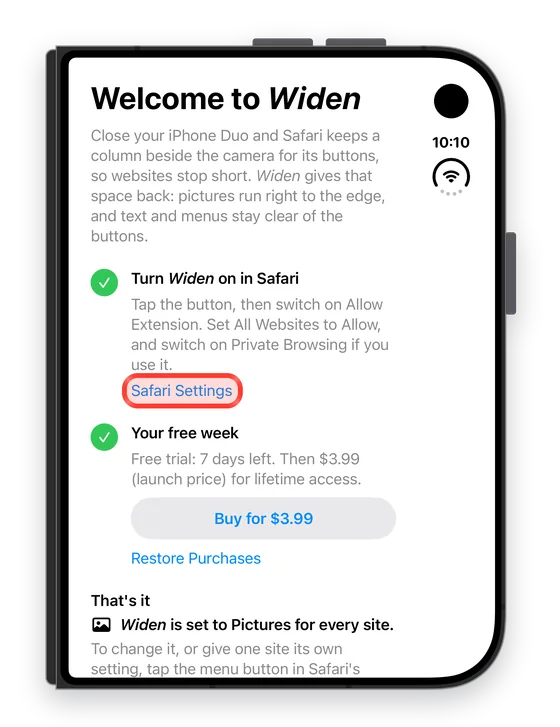
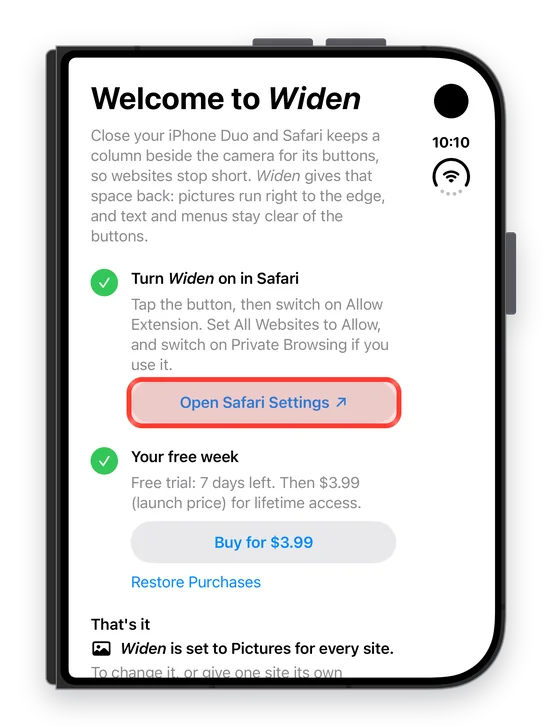
Setup step 1: Open Safari Settings button (build 45)

Changed region(s): [[0.1518, 0.5144, 0.7286, 0.9381]]

diff --git a/setup/index.html b/setup/index.html
@@ -33,9 +33,9 @@
     <ol class="guide">
       <li>
         <div><span class="where">In the <em>Widen</em> app</span>
-          <h2>Tap Safari Settings</h2>
+          <h2>Tap Open Safari Settings</h2>
           <p>It takes you straight to <em>Widen</em>&rsquo;s page in the Settings app. iOS only lets you, not apps, switch on a Safari extension, so this is the one step you do yourself.</p></div>
-        <figure class="shot"><img src="../img/setup-app.webp?v=10" width="560" height="727" loading="lazy" alt="The Widen app's welcome screen with the Safari Settings link circled"><figcaption>Tap <strong>Safari Settings</strong></figcaption></figure>
+        <figure class="shot"><img src="../img/setup-app.webp?v=11" width="560" height="727" loading="lazy" alt="The Widen app's welcome screen with the Open Safari Settings button circled"><figcaption>Tap <strong>Open Safari Settings</strong></figcaption></figure>
       </li>
       <li>
         <div><span class="where">In Settings › Safari</span>

diff --git a/index.html b/index.html
@@ -154,7 +154,7 @@
       <span class="kicker">Start</span>
       <h2>From download to wider pages in under a minute</h2>
       <ol class="steps">
-        <li><h3>In the <em>Widen</em> app</h3><p>Tap <strong>Safari Settings</strong>.</p></li>
+        <li><h3>In the <em>Widen</em> app</h3><p>Tap <strong>Open Safari Settings</strong>.</p></li>
         <li><h3>In Settings › Safari</h3><p>Switch <strong>Allow Extension</strong> on and set <strong>All Websites</strong> to <strong>Allow</strong>.</p></li>
         <li><h3>In Safari</h3><p>Close your iPhone Duo and browse. Every site opens in <strong>Pictures</strong> mode.</p></li>
       </ol>

diff --git a/faq/index.html b/faq/index.html
@@ -91,7 +91,7 @@
     <div class="faq">
       <details>
         <summary>Where are <em>Widen</em>&rsquo;s settings in Safari?</summary>
-        <p>In <strong>Settings › Apps › Safari › Extensions › Widen</strong>. The <em>Widen</em> app&rsquo;s <strong>Safari Settings</strong> link takes you straight there.</p>
+        <p>In <strong>Settings › Apps › Safari › Extensions › Widen</strong>. The <em>Widen</em> app&rsquo;s <strong>Open Safari Settings</strong> button takes you straight there.</p>
       </details>
       <details>
         <summary>What does each switch do?</summary>
